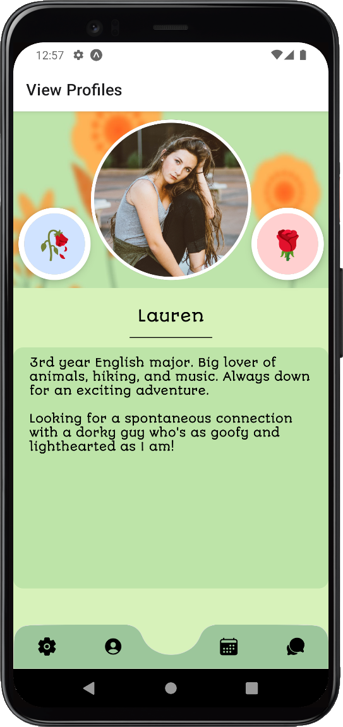
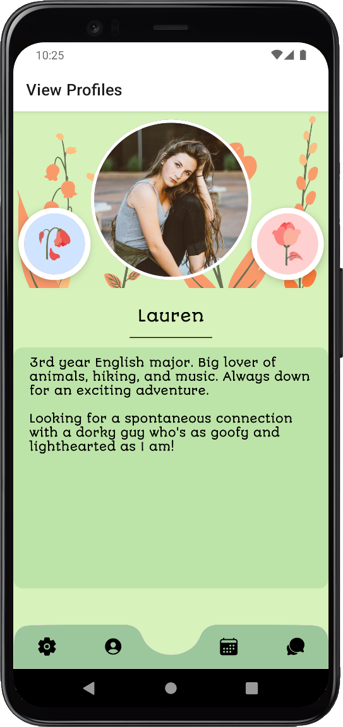
update art

Changed region(s): [[0.0292, 0.1513, 0.9621, 0.3934], [0.2041, 0.0605, 0.2915, 0.0908], [0.1166, 0.0605, 0.1749, 0.0908]]

diff --git a/index.html b/index.html
@@ -3,7 +3,7 @@
 
 <head>
     <title>GraduDate</title>
-    <link rel="icon" type="image/x-icon" href="./images/favicon.png">
+    <link rel="icon" type="image/x-icon" href="./images/icon.svg">
     <link href="https://fonts.googleapis.com/css2?family=Autour+One&display=swap" rel="stylesheet">
     <link rel="stylesheet" href="https://maxcdn.bootstrapcdn.com/bootstrap/4.0.0/css/bootstrap.min.css"
         integrity="sha384-Gn5384xqQ1aoWXA+058RXPxPg6fy4IWvTNh0E263XmFcJlSAwiGgFAW/dAiS6JXm" crossorigin="anonymous">
@@ -13,6 +13,7 @@
 </head>
 
 <body>
+    <div class="bg-image"></div>
     <div class="content">
         <div class="center">
             <div>

diff --git a/about.html b/about.html
@@ -3,7 +3,7 @@
 
 <head>
     <title>GraduDate</title>
-    <link rel="icon" type="image/x-icon" href="./images/favicon.png">
+    <link rel="icon" type="image/x-icon" href="./images/icon.svg">
     <link href="https://fonts.googleapis.com/css2?family=Autour+One&display=swap" rel="stylesheet">
     <link rel="stylesheet" href="https://maxcdn.bootstrapcdn.com/bootstrap/4.0.0/css/bootstrap.min.css"
         integrity="sha384-Gn5384xqQ1aoWXA+058RXPxPg6fy4IWvTNh0E263XmFcJlSAwiGgFAW/dAiS6JXm" crossorigin="anonymous">

diff --git a/legal.html b/legal.html
@@ -3,7 +3,7 @@
 
 <head>
     <title>GraduDate</title>
-    <link rel="icon" type="image/x-icon" href="./images/favicon.png">
+    <link rel="icon" type="image/x-icon" href="./images/icon.svg">
     <link href="https://fonts.googleapis.com/css2?family=Autour+One&display=swap" rel="stylesheet">
     <link rel="stylesheet" href="https://maxcdn.bootstrapcdn.com/bootstrap/4.0.0/css/bootstrap.min.css"
         integrity="sha384-Gn5384xqQ1aoWXA+058RXPxPg6fy4IWvTNh0E263XmFcJlSAwiGgFAW/dAiS6JXm" crossorigin="anonymous">

diff --git a/styles/styles.css b/styles/styles.css
@@ -77,6 +77,7 @@ footer {
 
   .content {
     padding-bottom: 20%;
+    backdrop-filter: blur(5px);
   }
 
   .container {
@@ -130,7 +131,7 @@ footer {
   }
 
   body {
-    background-image: url(../images/background.jpg);
+    background-image: url(../images/background.png);
     background-repeat: no-repeat;
     background-size: cover;
     background-color: #d7f2ba;
